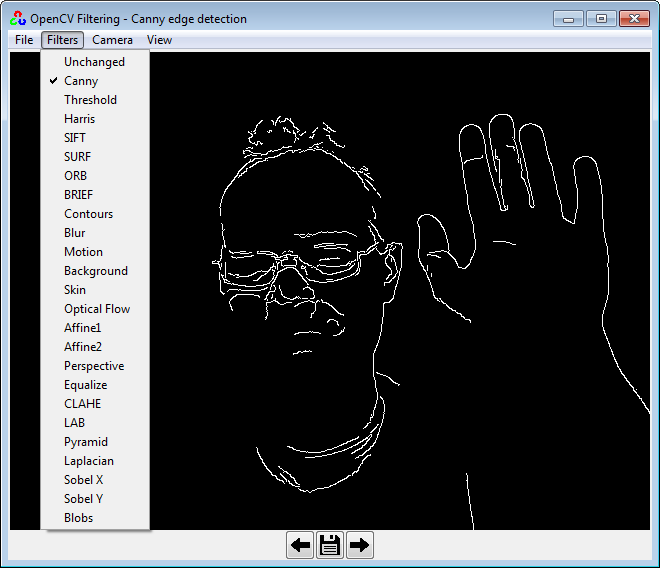
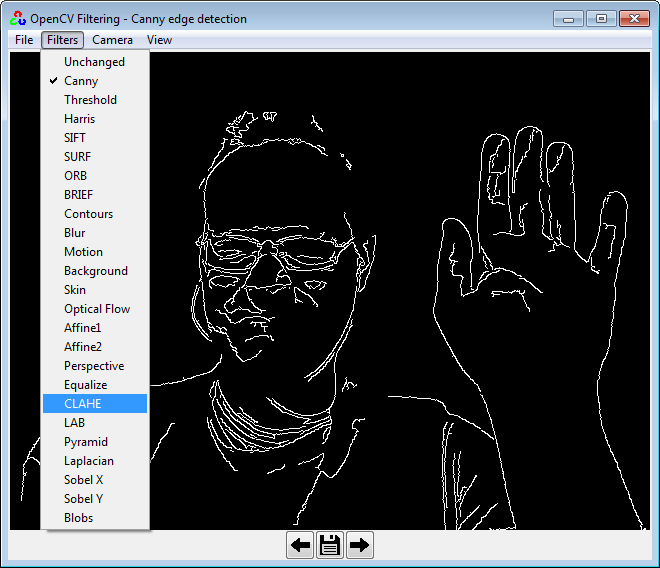
Software update

diff --git a/opencv_filtering/opencv/logic_filters.py b/opencv_filtering/opencv/logic_filters.py
@@ -109,7 +109,7 @@ class Filters:
     def filter_canny(self):
         """ Canny edge detection """
         gray = cv2.cvtColor(self.frame, cv2.COLOR_BGR2GRAY)  # convert to gray scale
-        return cv2.Canny(gray, 100, 200)  # Canny edge detection
+        return cv2.Canny(gray, 50, 200)  # Canny edge detection
 
     def filter_threshold(self):
         """ Adaptive Gaussian threshold """
